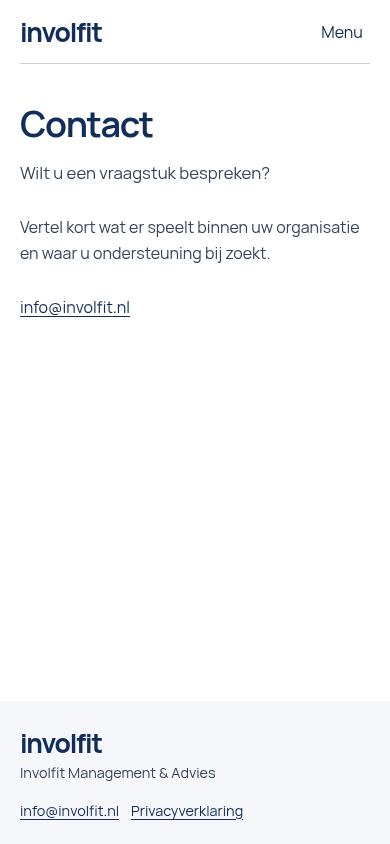
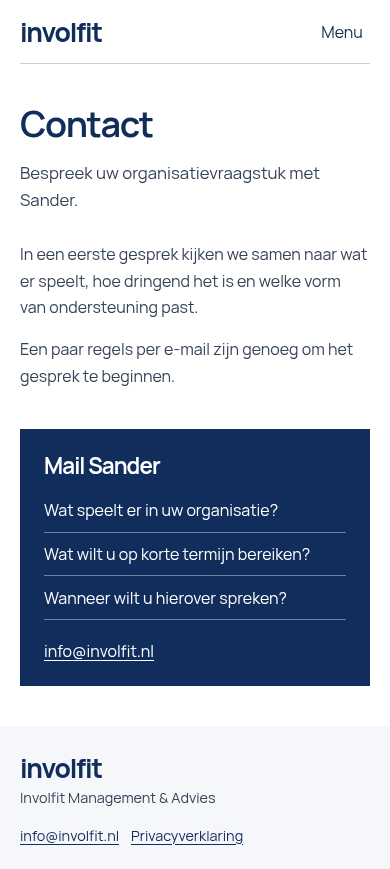
Give Involfit pages distinct layouts and concrete Dutch copy

diff --git a/projects/involfit/public/site.css b/projects/involfit/public/site.css
@@ -39,8 +39,7 @@ h2 { font-size: clamp(1.4rem, 3vw, 2.25rem); font-weight: 650; }
 .site-footer .shell { padding-block: 1.5rem; }
 .site-footer p, .footer-links { font-size: .9rem; margin: 0; }
 
-.hero { display: grid; grid-template-columns: minmax(0, 1fr); align-items: stretch; background: #f7f8fa; }
-.hero-with-portrait { grid-template-columns: minmax(0, 1.15fr) minmax(0, 1fr); }
+.hero { display: grid; grid-template-columns: minmax(0, 1.15fr) minmax(0, 1fr); align-items: stretch; background: #f7f8fa; }
 .hero-copy { padding: clamp(1.75rem, 5vw, 5rem); }
 .hero h1 { max-width: 11ch; margin-bottom: .42em; }
 .hero-name { font-weight: 650; color: var(--ink); }
@@ -72,9 +71,7 @@ summary { cursor: pointer; min-height: 44px; }
 .service-content { padding: .3rem .6rem 1.3rem; max-width: 65ch; }
 .next-step { margin-top: 1.75rem; }
 .work-areas-heading { margin-top: 2rem; }
-.work-areas { list-style: none; margin: 0; padding: 0; max-width: 55rem; }
-.work-areas li { border-top: 1px solid var(--line); padding-block: 1rem; }
-.work-areas p { margin-bottom: 0; }
+.work-areas { list-style: none; margin: 0; padding: 0; max-width: 68rem; }
 .timeline { list-style: none; margin: 0; padding-left: 1rem; border-left: 1px solid var(--line); }
 .timeline li { position: relative; padding: .25rem 0 1.25rem .65rem; }
 .timeline li:last-child { padding-bottom: .25rem; }
@@ -104,11 +101,50 @@ summary { cursor: pointer; min-height: 44px; }
     background: white;
   }
   .mobile-nav nav a { min-height: 44px; padding: .65rem .45rem; border-top: 1px solid var(--line); }
-  .hero-with-portrait, .introduction { grid-template-columns: minmax(0, 1fr); }
+  .hero, .introduction { grid-template-columns: minmax(0, 1fr); }
   .hero { width: 100%; }
   .hero-copy { padding-inline: var(--gutter); }
   .portrait { height: auto; min-height: 0; aspect-ratio: 4 / 3; }
   .introduction { gap: .5rem; }
   .expertise-links { flex-direction: column; gap: .65rem; }
   .site-footer .shell { align-items: flex-start; flex-direction: column; }
+}
+
+/* The opening pairs an introduction with either a portrait or the visitor's questions. */
+.hero-copy > p { max-width: 45ch; }
+.hero-position, .contact-panel {
+  background: var(--ink);
+  color: white;
+  padding: clamp(1.5rem, 4vw, 3.5rem);
+}
+.hero-position { display: flex; flex-direction: column; justify-content: center; }
+.hero-position h2, .hero-position a, .contact-panel h2, .contact-panel a { color: inherit; }
+.hero-position :focus-visible, .contact-panel :focus-visible { outline-color: #dce2ea; }
+.hero-position ul, .contact-panel ul { padding-left: 0; list-style: none; margin: .65rem 0 1.25rem; }
+.hero-position li, .contact-panel li { padding-block: .65rem; border-bottom: 1px solid #6e809a; }
+.introduction p + p { margin-top: .8rem; }
+
+.profile-layout, .service-layout, .contact-layout {
+  display: grid;
+  align-items: start;
+  gap: clamp(1.5rem, 5vw, 5rem);
+}
+.profile-layout, .contact-layout { grid-template-columns: minmax(0, 1.05fr) minmax(0, 1fr); }
+.profile-story p, .contact-layout > div > p { max-width: 62ch; }
+.approach-panel, .service-aside { background: #f0f3f7; padding: clamp(1.25rem, 3vw, 2.5rem); }
+.approach-panel dl { margin-bottom: 0; }
+.approach-panel dt { font-weight: 700; }
+.approach-panel dd { margin: .25rem 0 1rem; color: var(--muted); }
+.approach-panel dd:last-child { margin-bottom: 0; }
+.service-layout { grid-template-columns: minmax(0, 2fr) minmax(0, 1fr); }
+.service-question { display: block; margin-top: .2rem; color: var(--muted); font-weight: 400; }
+.service-content h2 { font-size: 1rem; letter-spacing: 0; }
+.service-aside .next-step { margin-bottom: 0; }
+.work-areas li { display: grid; grid-template-columns: minmax(0, 1fr) minmax(0, 2fr); gap: .7rem 2rem; border-top: 1px solid var(--line); padding-block: 1.5rem; }
+.work-areas p { margin-bottom: .65rem; }
+.work-areas strong { display: block; color: var(--ink); }
+
+@media (max-width: 48rem) {
+  .hero, .profile-layout, .service-layout, .contact-layout, .work-areas li { grid-template-columns: minmax(0, 1fr); }
+  .hero-position { padding-inline: var(--gutter); }
 }

diff --git a/projects/involfit/src/content.ts b/projects/involfit/src/content.ts
@@ -5,6 +5,7 @@ export const services = [
     summary: 'Tijdelijke versterking als een rol openvalt of de uitvoering extra aandacht vraagt.',
     situation: 'Er is tijdelijk leiding nodig om prioriteiten scherp te houden en het werk te laten doorgaan.',
     approach: 'We maken afspraken over de rol, het mandaat en de belangrijkste besluiten. Vanaf het begin is duidelijk wie het werk na de interimperiode overneemt.',
+    example: 'Een afdelingshoofd vertrekt terwijl de werving nog loopt. Het team heeft iemand nodig die beslissingen neemt en het werk kan overdragen zodra de opvolger begint.',
     question: 'We hebben tijdelijk versterking nodig',
     opening: 'Een rol valt weg. Wat moet doorgaan?',
     firstStep: 'Maak voor de eerstvolgende weken zichtbaar welke besluiten niet kunnen wachten en wie ze tijdelijk mag nemen.',
@@ -15,6 +16,7 @@ export const services = [
     summary: 'Een onafhankelijke blik op vraagstukken rond organisatie, verandering en samenwerking.',
     situation: 'Teams herkennen het probleem, maar verschillen van mening over de oorzaak of over de volgende stap.',
     approach: 'We brengen de vraag en de verschillende perspectieven in kaart. Daarna bepalen we welke keuzes nodig zijn en bij wie het besluit ligt.',
+    example: 'Een organisatie groeit en twee teams krijgen steeds vaker dezelfde vragen. Ze moeten afspreken wie welk werk doet en wie beslist bij twijfel.',
     question: 'We zoeken richting voor een verandering',
     opening: 'Welk besluit schuift steeds door?',
     firstStep: 'Neem één besluit waar meerdere teams op wachten. Bespreek wat nog onzeker is en wie de keuze kan maken.',
@@ -25,6 +27,7 @@ export const services = [
     summary: 'Van terugkerend knelpunt naar een concrete verbetering in het dagelijks werk.',
     situation: 'Werk blijft liggen tussen teams, afspraken zijn onduidelijk of hetzelfde knelpunt komt steeds terug.',
     approach: 'We kijken naar een concreet voorbeeld uit het werk. Dat helpt om te bepalen welke afspraak, overdracht of verantwoordelijkheid als eerste aandacht vraagt.',
+    example: 'Nieuwe klantvragen blijven liggen tussen intake en uitvoering. Het team volgt enkele aanvragen om te zien welke informatie bij de overdracht ontbreekt.',
     question: 'We willen een knelpunt aanpakken',
     opening: 'Waar blijft het werk liggen?',
     firstStep: 'Volg één recente overdracht. Kijk welk signaal of welke afspraak ontbrak waardoor het werk stilviel.',

diff --git a/projects/involfit/review/README.md b/projects/involfit/review/README.md
@@ -35,3 +35,9 @@ Een tweede reviewer testte menu en uitklapblokken met toetsenbord en touch, cont
 - De browsercontrole op de bijgewerkte versie deed 30 layoutchecks op vijf breedtes, inclusief 320 CSS-pixels. Ze controleerde navigatie, zichtbare focus, Escape, touch, uitklapblokken, deeplinks, reduced motion en bediening zonder JavaScript. Zie [testresultaten](test-results.json).
 - Op 20 november zijn de homepage zonder portret en de pagina Ervaring met werkgebieden opnieuw getest. In een tijdelijke testbuild zijn ook responsieve portretbestanden en een tijdlijnitem gecontroleerd. De testinhoud is buiten de site gehouden.
 - Sanders portret, de bio, de definitieve diensten, het zakelijke adres en de loopbaanfeiten wachten op inhoudelijke bevestiging. De tijdlijn toont voorlopig werkgebieden.
+
+## Herbeoordeling van inhoud en paginaopbouw
+
+De onafhankelijke reviewer controleerde op 20 november de vijf hoofdpagina’s op 1440 en 390 px. Home toont een vraagkiezer, Over Sander een profiel met werkwijze, Diensten een uitklaplijst met een adviespaneel, Ervaring werkgebieden met gelabelde voorbeelden en Contact een mailpaneel. Alle vijf routes laadden zonder horizontale overflow. De route van de vraagkiezer naar een geopend dienstblok en het bijbehorende voorbeeld werkte op desktop en mobiel. De nieuwe pagina-opnamen bovenaan tonen deze herbeoordeelde versie.
+
+De voorbeeldsituaties bevatten geen klantnamen, periodes of resultaten. Voor een chronologische tijdlijn blijven bevestigde loopbaangegevens nodig.

diff --git a/projects/involfit/README.md b/projects/involfit/README.md
@@ -24,7 +24,7 @@ python3 tests/browser.py --screenshots /tmp/involfit-review
 
 ## Inhoud en vrijgave
 
-- Plaats Sanders goedgekeurde portret als `src/assets/sander.jpg` (ook PNG, WebP of AVIF mogelijk). Astro maakt responsieve WebP-varianten. Zonder bestand toont Home alleen de introductie.
+- Plaats Sanders goedgekeurde portret als `src/assets/sander.jpg` (ook PNG, WebP of AVIF mogelijk). Astro maakt responsieve WebP-varianten. Zonder bestand toont Home naast de introductie drie herkenbare organisatievragen.
 - Ervaring toont werkgebieden zolang er geen bevestigde opdrachten zijn. Vul `experience` in `src/content.ts` in, meest recente eerst, met periode, rol, opdracht en eventueel een openbare organisatienaam.
 - Bevestig de bio, de dienstnamen en het bestaande zakelijke adres `info@involfit.nl` vóór publicatie.
 - Staging is standaard gemarkeerd als `noindex`. Zet `SITE_INDEXABLE` pas na goedgekeurde publicatie op `1`.
